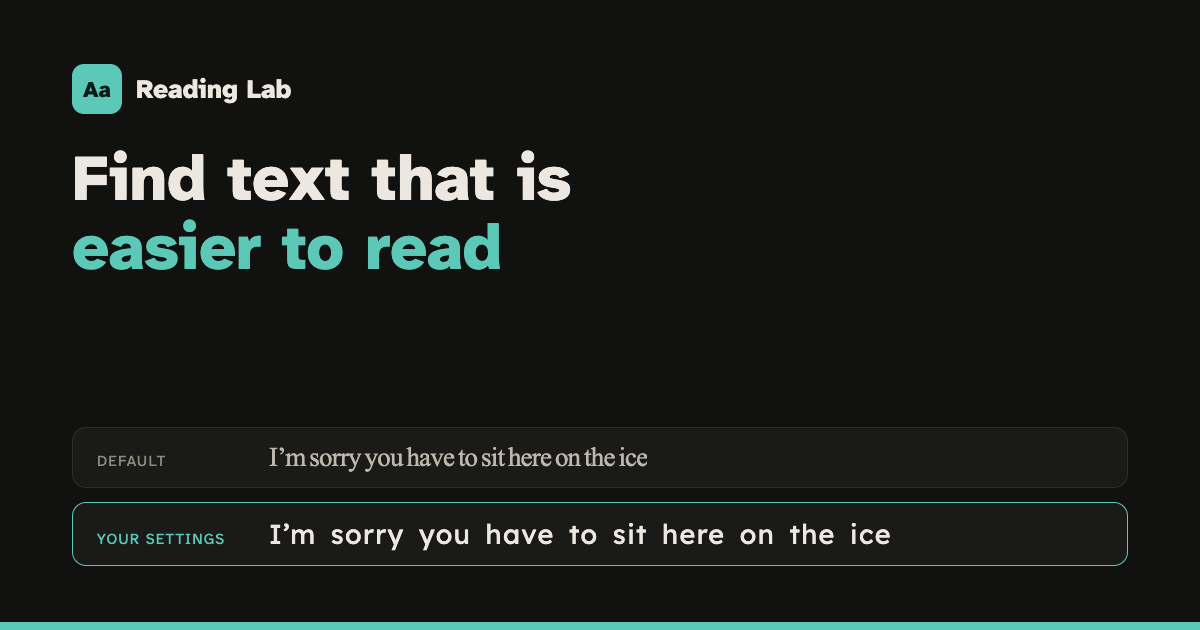
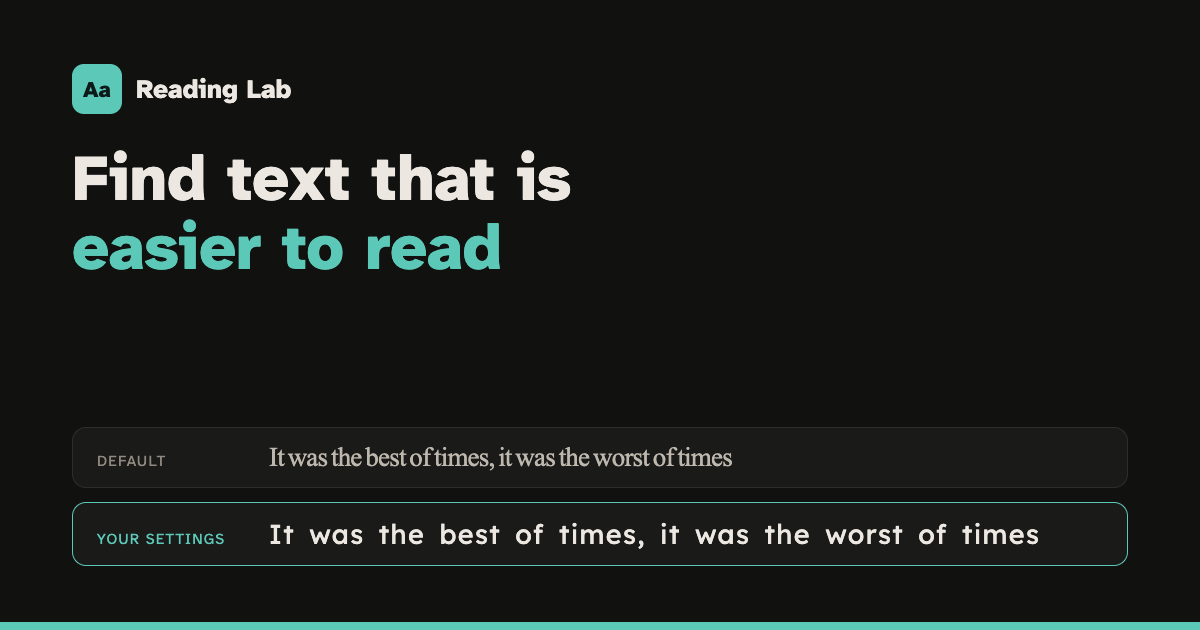
Preview image: Dickens opening line

Changed region(s): [[0.2158, 0.8143, 0.8633, 0.8746], [0.2158, 0.6937, 0.6167, 0.754]]

diff --git a/index.html b/index.html
@@ -10,12 +10,12 @@
 <meta property="og:title" content="Reading Lab — test text spacing for dyslexia">
 <meta property="og:description" content="Try fonts, letter spacing, word spacing and line height to find text that is easier to read. In English and Spanish.">
 <meta property="og:url" content="https://nifalconi.github.io/dyslexia-reading-lab/">
-<meta property="og:image" content="https://nifalconi.github.io/dyslexia-reading-lab/assets/og-image.png">
+<meta property="og:image" content="https://nifalconi.github.io/dyslexia-reading-lab/assets/og-image.png?v=2">
 <meta property="og:image:width" content="1200">
 <meta property="og:image:height" content="630">
 <meta property="og:image:alt" content="Reading Lab — find text that is easier to read">
 <meta name="twitter:card" content="summary_large_image">
-<meta name="twitter:image" content="https://nifalconi.github.io/dyslexia-reading-lab/assets/og-image.png">
+<meta name="twitter:image" content="https://nifalconi.github.io/dyslexia-reading-lab/assets/og-image.png?v=2">
 <script>(function(){var d=document.documentElement,L=['en','es'],q=new URLSearchParams(location.search).get('lang'),c=null,t=null;try{c=localStorage.getItem('rl.langChoice');t=localStorage.getItem('rl.theme');}catch(e){}var b=(navigator.languages&&navigator.languages.length?navigator.languages:[navigator.language||'']).map(function(x){return String(x).slice(0,2).toLowerCase();}).filter(function(x){return L.indexOf(x)>=0;})[0];var l=[q,c,b].filter(function(x){return L.indexOf(x)>=0;})[0]||'en';d.lang=l;d.dataset.theme=t||(matchMedia('(prefers-color-scheme: dark)').matches?'dark':'light');})();</script>
 <link rel="preload" href="assets/fonts/AtkinsonHyperlegibleNext-VariableFont_wght.woff2" as="font" type="font/woff2" crossorigin>
 <link rel="stylesheet" href="assets/style.css?v=13">

diff --git a/extension.html b/extension.html
@@ -10,12 +10,12 @@
 <meta property="og:title" content="DyslexiaAway review &amp; setup — Reading Lab">
 <meta property="og:description" content="Why we recommend the free, open-source DyslexiaAway extension, what we checked in its code, and how to set it up with your reading settings.">
 <meta property="og:url" content="https://nifalconi.github.io/dyslexia-reading-lab/extension.html">
-<meta property="og:image" content="https://nifalconi.github.io/dyslexia-reading-lab/assets/og-image.png">
+<meta property="og:image" content="https://nifalconi.github.io/dyslexia-reading-lab/assets/og-image.png?v=2">
 <meta property="og:image:width" content="1200">
 <meta property="og:image:height" content="630">
 <meta property="og:image:alt" content="Reading Lab — find text that is easier to read">
 <meta name="twitter:card" content="summary_large_image">
-<meta name="twitter:image" content="https://nifalconi.github.io/dyslexia-reading-lab/assets/og-image.png">
+<meta name="twitter:image" content="https://nifalconi.github.io/dyslexia-reading-lab/assets/og-image.png?v=2">
 <script>(function(){var d=document.documentElement,L=['en','es'],q=new URLSearchParams(location.search).get('lang'),c=null,t=null;try{c=localStorage.getItem('rl.langChoice');t=localStorage.getItem('rl.theme');}catch(e){}var b=(navigator.languages&&navigator.languages.length?navigator.languages:[navigator.language||'']).map(function(x){return String(x).slice(0,2).toLowerCase();}).filter(function(x){return L.indexOf(x)>=0;})[0];var l=[q,c,b].filter(function(x){return L.indexOf(x)>=0;})[0]||'en';d.lang=l;d.dataset.theme=t||(matchMedia('(prefers-color-scheme: dark)').matches?'dark':'light');})();</script>
 <link rel="stylesheet" href="assets/style.css?v=13">
 <script src="assets/common.js?v=13" defer></script>

diff --git a/guide.html b/guide.html
@@ -10,12 +10,12 @@
 <meta property="og:title" content="Guide & research: spacing, fonts and dyslexia — Reading Lab">
 <meta property="og:description" content="What the research says about letter spacing, word spacing, line height, font size and 'dyslexia fonts', with references.">
 <meta property="og:url" content="https://nifalconi.github.io/dyslexia-reading-lab/guide.html">
-<meta property="og:image" content="https://nifalconi.github.io/dyslexia-reading-lab/assets/og-image.png">
+<meta property="og:image" content="https://nifalconi.github.io/dyslexia-reading-lab/assets/og-image.png?v=2">
 <meta property="og:image:width" content="1200">
 <meta property="og:image:height" content="630">
 <meta property="og:image:alt" content="Reading Lab — find text that is easier to read">
 <meta name="twitter:card" content="summary_large_image">
-<meta name="twitter:image" content="https://nifalconi.github.io/dyslexia-reading-lab/assets/og-image.png">
+<meta name="twitter:image" content="https://nifalconi.github.io/dyslexia-reading-lab/assets/og-image.png?v=2">
 <script>(function(){var d=document.documentElement,L=['en','es'],q=new URLSearchParams(location.search).get('lang'),c=null,t=null;try{c=localStorage.getItem('rl.langChoice');t=localStorage.getItem('rl.theme');}catch(e){}var b=(navigator.languages&&navigator.languages.length?navigator.languages:[navigator.language||'']).map(function(x){return String(x).slice(0,2).toLowerCase();}).filter(function(x){return L.indexOf(x)>=0;})[0];var l=[q,c,b].filter(function(x){return L.indexOf(x)>=0;})[0]||'en';d.lang=l;d.dataset.theme=t||(matchMedia('(prefers-color-scheme: dark)').matches?'dark':'light');})();</script>
 <link rel="stylesheet" href="assets/style.css?v=13">
 <script src="assets/common.js?v=13" defer></script>

diff --git a/test.html b/test.html
@@ -10,12 +10,12 @@
 <meta property="og:title" content="Find my reading settings — Reading Lab">
 <meta property="og:description" content="A 5-minute reading test that compares fonts, spacing, line height and size, and suggests the settings that work best for you.">
 <meta property="og:url" content="https://nifalconi.github.io/dyslexia-reading-lab/test.html">
-<meta property="og:image" content="https://nifalconi.github.io/dyslexia-reading-lab/assets/og-image.png">
+<meta property="og:image" content="https://nifalconi.github.io/dyslexia-reading-lab/assets/og-image.png?v=2">
 <meta property="og:image:width" content="1200">
 <meta property="og:image:height" content="630">
 <meta property="og:image:alt" content="Reading Lab — find text that is easier to read">
 <meta name="twitter:card" content="summary_large_image">
-<meta name="twitter:image" content="https://nifalconi.github.io/dyslexia-reading-lab/assets/og-image.png">
+<meta name="twitter:image" content="https://nifalconi.github.io/dyslexia-reading-lab/assets/og-image.png?v=2">
 <script>(function(){var d=document.documentElement,L=['en','es'],q=new URLSearchParams(location.search).get('lang'),c=null,t=null;try{c=localStorage.getItem('rl.langChoice');t=localStorage.getItem('rl.theme');}catch(e){}var b=(navigator.languages&&navigator.languages.length?navigator.languages:[navigator.language||'']).map(function(x){return String(x).slice(0,2).toLowerCase();}).filter(function(x){return L.indexOf(x)>=0;})[0];var l=[q,c,b].filter(function(x){return L.indexOf(x)>=0;})[0]||'en';d.lang=l;d.dataset.theme=t||(matchMedia('(prefers-color-scheme: dark)').matches?'dark':'light');})();</script>
 <link rel="stylesheet" href="assets/style.css?v=13">
 <script src="assets/common.js?v=13" defer></script>

diff --git a/assets/readme/og.html b/assets/readme/og.html
@@ -31,8 +31,8 @@ h1 span { color: #5cc8b8; }
   <div class="brand"><span class="mark">Aa</span>Reading Lab</div>
   <h1>Find text that is<br><span>easier to read</span></h1>
   <div class="demo">
-    <div class="row tight"><span class="tag">Default</span><span class="txt">I’m sorry you have to sit here on the ice</span></div>
-    <div class="row open"><span class="tag">Your settings</span><span class="txt">I’m sorry you have to sit here on the ice</span></div>
+    <div class="row tight"><span class="tag">Default</span><span class="txt">It was the best of times, it was the worst of times</span></div>
+    <div class="row open"><span class="tag">Your settings</span><span class="txt">It was the best of times, it was the worst of times</span></div>
   </div>
 </body>
 </html>
